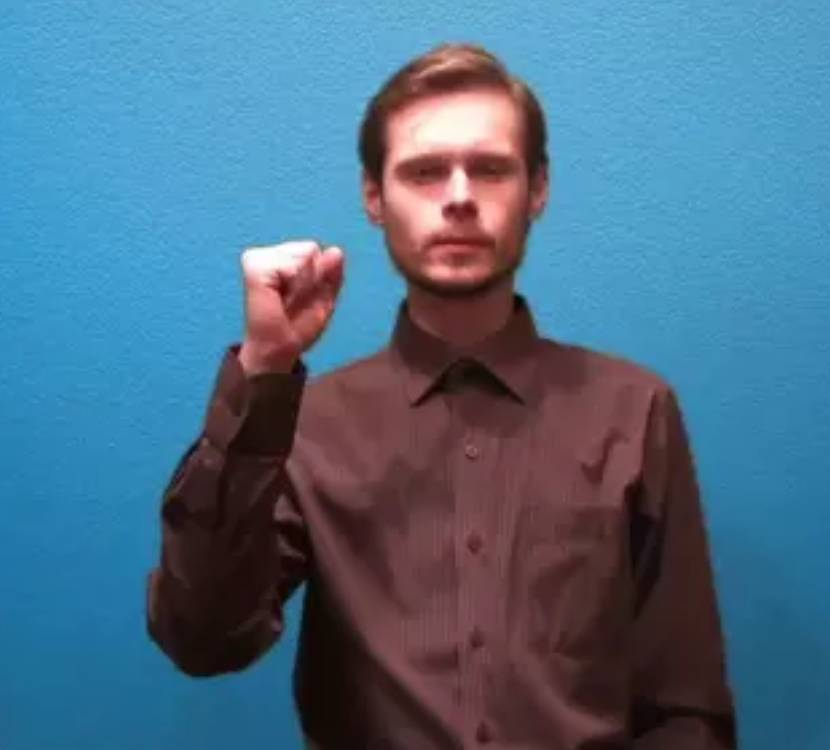
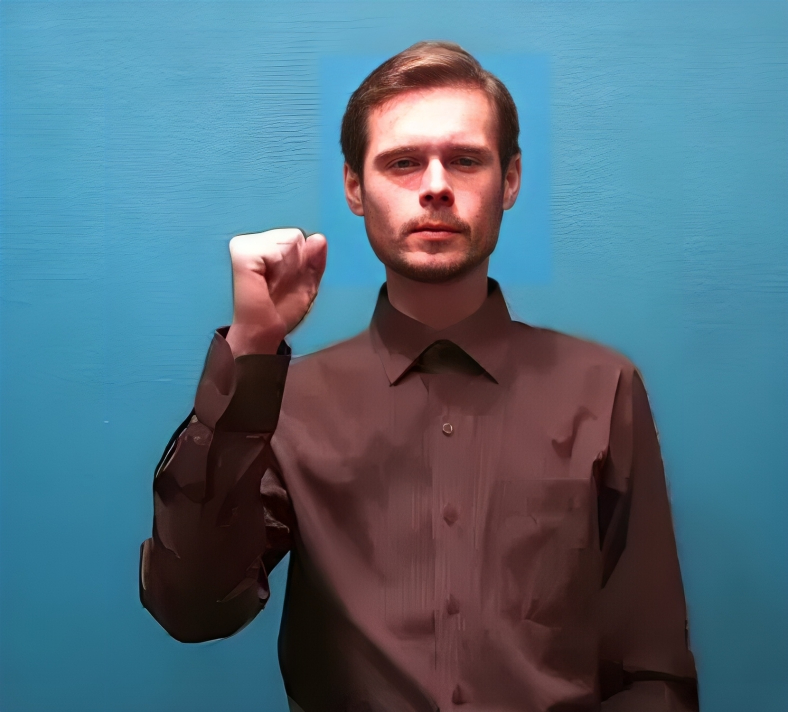
Добавлена вёрстка для Обучения, улучшены изображения для жестов

diff --git a/views/learning_view.py b/views/learning_view.py
@@ -1,7 +1,8 @@
 # views/learning_view.py
 
-from PyQt6.QtWidgets import QWidget, QVBoxLayout, QPushButton, QLabel, QMessageBox
-from PyQt6.QtCore import pyqtSignal
+from PyQt6.QtWidgets import QWidget, QVBoxLayout, QPushButton, QLabel, QMessageBox, QHBoxLayout, QSpacerItem, QSizePolicy
+from PyQt6.QtGui import QIcon
+from PyQt6.QtCore import pyqtSignal, QSize, Qt
 from views.instruction_dialog import InstructionDialog
 from views.recognizer_dialog import RecognizerDialog
 import glob
@@ -17,16 +18,55 @@ class LearningView(QWidget):
         self.layout = QVBoxLayout()
         self.setLayout(self.layout)
 
-        self.learn_gestures_button = QPushButton("Изучить жесты")
+        self.button_text_layout = QVBoxLayout()
+        self.button_layout = QHBoxLayout()
+
+        self.learn_gestures_button = QPushButton(" Изучить жесты")
+        self.learn_gestures_button.setObjectName("learn_gestures_button")
         self.learn_gestures_button.setToolTip("Изучить новые жесты")
+        self.learn_gestures_button.setIcon(QIcon("./resources/icons/Learn.svg"))
+        self.learn_gestures_button.setIconSize(QSize(32, 32))
         self.learn_gestures_button.clicked.connect(self.learn_gestures)
 
-        self.review_gestures_button = QPushButton("Повторить жесты")
+        self.review_gestures_button = QPushButton(" Повторить жесты")
+        self.review_gestures_button.setObjectName("review_gestures_button")
         self.review_gestures_button.setToolTip("Повторить изученные жесты")
+        self.review_gestures_button.setIcon(QIcon("./resources/icons/Review.svg"))
+        self.review_gestures_button.setIconSize(QSize(32, 32))
         self.review_gestures_button.clicked.connect(self.review_gestures)
 
-        self.layout.addWidget(self.learn_gestures_button)
-        self.layout.addWidget(self.review_gestures_button)
+        self.button_layout.addStretch(1)
+        self.button_layout.addWidget(self.learn_gestures_button)
+        self.button_layout.addSpacing(20)
+        self.button_layout.addWidget(self.review_gestures_button)
+        self.button_layout.addStretch(1)
+
+        self.layout.addSpacerItem(QSpacerItem(20, 60, QSizePolicy.Policy.Minimum, QSizePolicy.Policy.Expanding))
+        self.layout.addLayout(self.button_layout)
+        self.layout.addSpacerItem(QSpacerItem(20, 20, QSizePolicy.Policy.Minimum))
+
+        self.text_layout = QHBoxLayout()
+        self.instruction_label = QLabel("Просмотр инструкции к жесту и оценивание демонстрируемого жеста")
+        self.instruction_label.setObjectName("instruction_label")
+        self.instruction_label.setAlignment(Qt.AlignmentFlag.AlignCenter)
+        self.instruction_label.setWordWrap(True)
+
+        self.review_label = QLabel("Повторная оценка жестов, которые были изучены")
+        self.review_label.setObjectName("review_label")
+        self.review_label.setAlignment(Qt.AlignmentFlag.AlignCenter)
+        self.review_label.setWordWrap(True)
+
+        self.text_layout.addStretch(1)
+        self.text_layout.addWidget(self.instruction_label)
+        self.text_layout.addSpacing(40)
+        self.text_layout.addWidget(self.review_label)
+        self.text_layout.addStretch(1)
+
+        self.button_text_layout.addLayout(self.button_layout)
+        self.button_text_layout.addLayout(self.text_layout)
+        self.layout.addLayout(self.button_text_layout)
+
+        self.layout.addSpacerItem(QSpacerItem(20, 60, QSizePolicy.Policy.Minimum, QSizePolicy.Policy.Expanding))
 
     def learn_gestures(self):
         gestures = self.get_unlearnt_gestures()

diff --git a/views/recognizer_dialog.py b/views/recognizer_dialog.py
@@ -1,7 +1,7 @@
 # views/recognizer_dialog.py
 
 from PyQt6.QtCore import pyqtSignal, Qt
-from PyQt6.QtGui import QImage, QPixmap
+from PyQt6.QtGui import QImage, QPixmap, QIcon
 from PyQt6.QtWidgets import QDialog, QVBoxLayout, QLabel, QPushButton, QHBoxLayout
 import cv2
 import mediapipe as mp
@@ -19,6 +19,8 @@ class RecognizerDialog(QDialog):
         self.mode = mode
         self.continue_pressed = False
         self.setWindowTitle("Распознаватель жестов")
+        self.setWindowIcon(QIcon("./resources/icons/logo.svg"))
+
         self.layout = QVBoxLayout()
         self.setLayout(self.layout)
 

diff --git a/views/instruction_dialog.py b/views/instruction_dialog.py
@@ -2,7 +2,7 @@
 
 from PyQt6.QtWidgets import QDialog, QVBoxLayout, QLabel, QPushButton, QHBoxLayout
 from PyQt6.QtCore import Qt
-from PyQt6.QtGui import QPixmap
+from PyQt6.QtGui import QPixmap, QIcon
 import os
 
 class InstructionDialog(QDialog):
@@ -11,6 +11,8 @@ class InstructionDialog(QDialog):
 
         self.gesture = gesture
         self.setWindowTitle("Инструкция к жесту")
+        self.setWindowIcon(QIcon("./resources/icons/logo.svg"))
+
         self.layout = QVBoxLayout()
         self.setLayout(self.layout)
 
